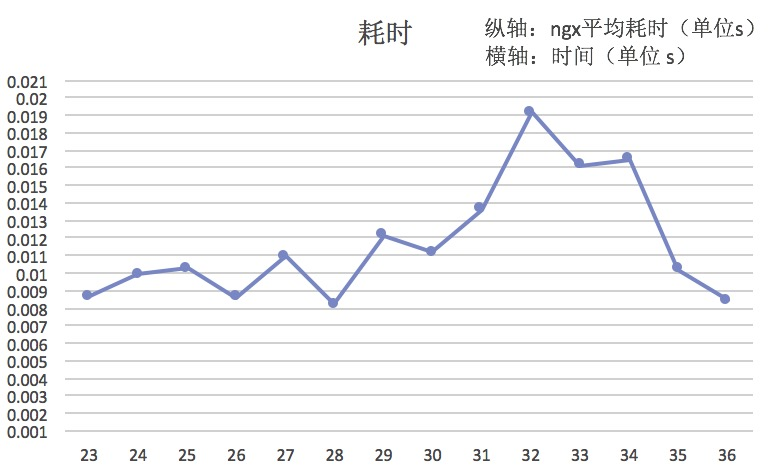
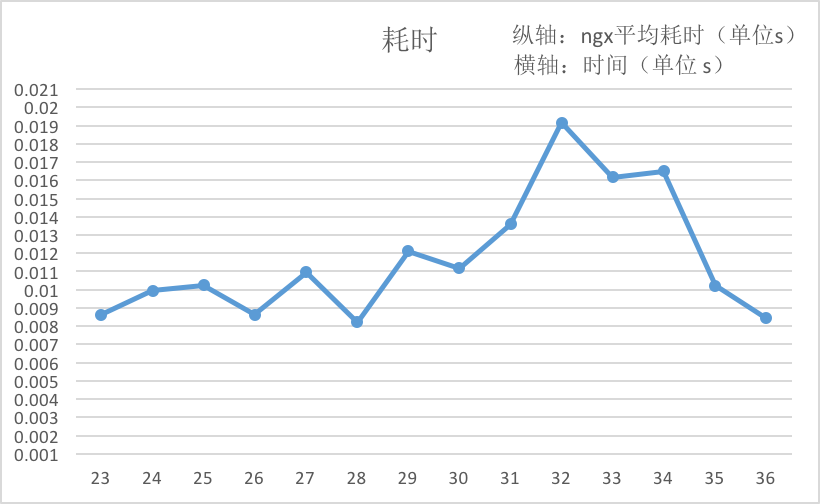
tuning picture size

Changed region(s): [[0.0, 0.0, 1.0, 1.0]]

diff --git a/doc/README.md b/doc/README.md
@@ -51,11 +51,11 @@ consul-template与consul作为一个组合，consul作为db，consul-template部
 
 reload造成的性能影响：
 
-![consul-template-reload-qps](https://github.com/weibocom/nginx-upsync-module/raw/master/doc/images/consul-template-reload-qps.png)
+<img src="https://github.com/weibocom/nginx-upsync-module/raw/master/doc/images/consul-template-reload-qps.png" alt="consul-template-reload-qps" height="50%" width="60%">
 ```
 图示：reload时nginx的请求处理能力会下降（注：nginx对于握手成功的请求不会丢失）
 ```
-![consul-template-reload-cost](https://github.com/weibocom/nginx-upsync-module/raw/master/doc/images/consul-template-reload-cost.png)
+<img src="https://github.com/weibocom/nginx-upsync-module/raw/master/doc/images/consul-template-reload-cost.png" alt="consul-template-reload-cost" height="50%" width="60%">
 ```
 图示：reload时耗时会发生波动，波动幅度甚至达50%+
 ```
@@ -69,7 +69,7 @@ reload造成的性能影响：
 
 此方案提供nginx http api，添加／删除server时，通过调用api向nginx发出请求，操作简单、便利。架构图如下：
 
-![nginx-http-api-arch](https://github.com/weibocom/nginx-upsync-module/raw/master/doc/images/nginx-http-api-arch.png)
+<img src="https://github.com/weibocom/nginx-upsync-module/raw/master/doc/images/nginx-http-api-arch.png" alt="nginx-http-api-arch" height="50%" width="40%">
 
 http api除了操作简单、方便，而且实时性好；缺点是分布式一致性难于保证，如果某一条注册失败，便会造成服务配置的不一致，容错复杂；另一个就是如果扩容nginx服务器，需要重新注册server（可参考nginx-upconf-module，正在完善）。
 
@@ -77,7 +77,7 @@ http api除了操作简单、方便，而且实时性好；缺点是分布式一
 
 upsync方式引入了第三方组件，作为nginx的upstream server配置的db，架构图如下：
 
-![nginx-upsync-arch](https://github.com/weibocom/nginx-upsync-module/raw/master/doc/images/nginx-upsync-arch.png)
+<img src="https://github.com/weibocom/nginx-upsync-module/raw/master/doc/images/nginx-upsync-arch.png" alt="nginx-upsync-arch" height="80%" width="60%">
 
 所有的后端server列表存于consul，便于nginx横向扩展，实时拉取，容错性更好，而且可以结合db的KV服务，提高实时性。
 
@@ -157,7 +157,7 @@ work进程数：8个；
 | reload | 7723 | 7583 | 7833 | 7680 | 7809 | 7682 | 6924 | 7081 | 7207 | 7232 | 7486 | 7571 | 7465 |
 | upsync | 7782 | 7705| 7772 | 7810 | 7899 | 7978 | 7858 | 7934 | 7994 | 7731 | 7824 | 7648 | 7888 |
 
-![reload vs upsync](https://github.com/weibocom/nginx-upsync-module/raw/master/doc/images/upsync-vs-reload-qps.png)
+<img src="https://github.com/weibocom/nginx-upsync-module/raw/master/doc/images/upsync-vs-reload-qps.png" alt="upsync-vs-reload-qps" height="50%" width="60%">
 
 #####平均耗时变化：
 
@@ -166,7 +166,7 @@ work进程数：8个；
 | reload | 12.102 | 15.108 | 11.443 | 9.426 | 10.178 | 10.605 | 15.253 | 14.315 | 14.762 | 8.392 | 14.385 | 32.335 | 15.277 |
 | upsync | 9.586 | 11.963 | 8.694 | 9.676 | 10.616 | 10.335 | 9.766 | 9.406 | 8.943 | 10.971 | 8.080 | 9.185 | 12.055 |
 
-![upsync-vs-reload-cost](https://github.com/weibocom/nginx-upsync-module/raw/master/doc/images/upsync-vs-reload-cost.png)
+<img src="https://github.com/weibocom/nginx-upsync-module/raw/master/doc/images/upsync-vs-reload-cost.png" alt="upsync-vs-reload-cost" height="50%" width="60%">
 
 从数据可以得出，reload操作时造成nginx的请求处理能力下降约10%，nginx本身的耗时会增长50%+。若是频繁的扩容缩容，reload操作造成的开销会更加明显。
 
